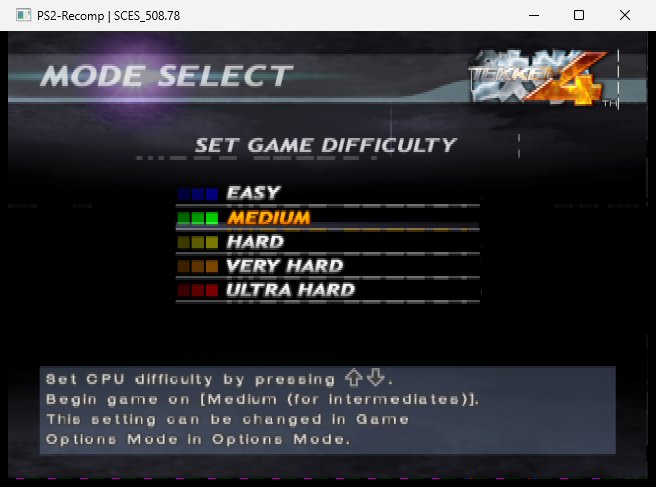
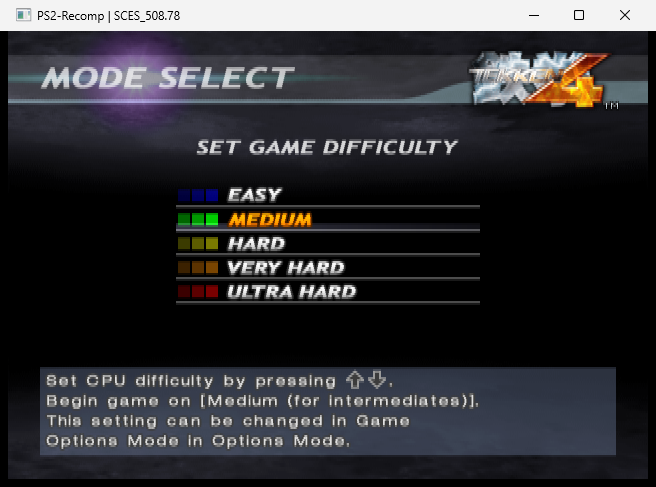
Dashed lines gone: sprites take UV at the pixel position (patch 08)
UI strips run from X -0.5 to 63.5 over U 0..64; DrawSprite sampled half a
pixel late (texel x+1) and read the GS memory beside each image at its right
and bottom edges. Patch 08 takes UV at the pixel and keeps FST fractions;
the difficulty screen now matches PCSX2. tools/gif_sprites.py lists the
sprites in a GIF packet log.

diff --git a/tools/gif_sprites.py b/tools/gif_sprites.py
@@ -1,0 +1,112 @@
+"""List the sprites in a GIF packet log written by the Tekken 4 override (TEKKEN4_GS_DUMP -> gif_packets_frame<N>.txt).
+
+Replays the GS registers a sprite depends on (PRIM, RGBAQ, UV, XYZ2, TEX0, CLAMP, TEX1, XYOFFSET, FRAME) through
+PACKED, REGLIST and A+D data, and prints one line per sprite: screen rectangle (XYOFFSET removed), UVs, texture
+and its CLAMP / filtering. Packets are logged as quadwords "hi lo", the GIF tag first; only the first 0x800 bytes
+of a packet are in the log, so sprites in a longer packet's tail are missing.
+
+Usage: python -I tools/gif_sprites.py logs/<run>/gif_packets_frame<N>.txt [--min-y Y --max-y Y]
+"""
+import argparse
+import re
+
+
+def packets(path):
+    cur = None
+    for line in open(path, encoding="utf-8"):
+        if line.startswith("packet"):
+            if cur:
+                yield cur
+            cur = []
+        else:
+            m = re.match(r"\s*[0-9a-f]+: ([0-9a-f]{16}) ([0-9a-f]{16})", line)
+            if m and cur is not None:
+                cur.append((int(m.group(2), 16), int(m.group(1), 16)))  # (lo, hi)
+    if cur:
+        yield cur
+
+
+def main():
+    ap = argparse.ArgumentParser()
+    ap.add_argument("log")
+    ap.add_argument("--min-y", type=float, default=-1e9)
+    ap.add_argument("--max-y", type=float, default=1e9)
+    args = ap.parse_args()
+    regs = {0x00: 0, 0x01: 0, 0x03: 0, 0x06: 0, 0x07: 0, 0x08: 0, 0x09: 0, 0x14: 0, 0x15: 0, 0x18: 0, 0x19: 0,
+            0x4C: 0, 0x4D: 0}
+    verts = []
+    count = 0
+
+    def write(addr, value):
+        nonlocal verts, count
+        if addr == 0x00:
+            regs[0x00] = value
+            verts = []
+        elif addr in (0x04, 0x05, 0x0C, 0x0D):
+            verts.append((value & 0xFFFF, (value >> 16) & 0xFFFF, regs[0x03]))
+            prim = regs[0x00]
+            if (prim & 7) == 6 and len(verts) == 2:
+                ctx = (prim >> 9) & 1
+                ofs = regs[0x18 + ctx]
+                ox, oy = (ofs & 0xFFFF) / 16.0, ((ofs >> 32) & 0xFFFF) / 16.0
+                (x0, y0, uv0), (x1, y1, uv1) = verts
+                fx0, fy0, fx1, fy1 = x0 / 16.0 - ox, y0 / 16.0 - oy, x1 / 16.0 - ox, y1 / 16.0 - oy
+                if args.min_y <= min(fy0, fy1) <= args.max_y or args.min_y <= max(fy0, fy1) <= args.max_y:
+                    tex0, clamp, tex1 = regs[0x06 + ctx], regs[0x08 + ctx], regs[0x14 + ctx]
+                    frame = regs[0x4C + ctx]
+                    u0, v0 = (uv0 & 0x3FFF) / 16.0, ((uv0 >> 16) & 0x3FFF) / 16.0
+                    u1, v1 = (uv1 & 0x3FFF) / 16.0, ((uv1 >> 16) & 0x3FFF) / 16.0
+                    tw, th = 1 << ((tex0 >> 26) & 0xF), 1 << ((tex0 >> 30) & 0xF)
+                    print(f"sprite ctx{ctx} fb {frame & 0x1FF:#x} x {fx0:g}..{fx1:g} y {fy0:g}..{fy1:g} "
+                          f"uv {u0:g},{v0:g}..{u1:g},{v1:g} tme {(prim >> 4) & 1} abe {(prim >> 6) & 1} "
+                          f"tex {tex0 & 0x3FFF:#x} psm {(tex0 >> 20) & 0x3F:#x} {tw}x{th} "
+                          f"clamp wms {clamp & 3} wmt {(clamp >> 2) & 3} minu {(clamp >> 4) & 0x3FF} "
+                          f"maxu {(clamp >> 14) & 0x3FF} minv {(clamp >> 24) & 0x3FF} maxv {(clamp >> 34) & 0x3FF} "
+                          f"linear {((tex1 >> 5) & 1) | (((tex1 >> 6) & 7) == 1)}")
+                count += 1
+                verts = []
+        else:
+            regs[addr] = value
+
+    for pkt in packets(args.log):
+        i = 0
+        while i < len(pkt):
+            lo, hi = pkt[i]
+            i += 1
+            nloop, flg, nreg = lo & 0x7FFF, (lo >> 58) & 3, (lo >> 60) & 0xF or 16
+            if (lo >> 46) & 1:
+                write(0x00, (lo >> 47) & 0x7FF)
+            descs = [(hi >> (4 * r)) & 0xF for r in range(nreg)]
+            if flg == 0:
+                for _ in range(nloop):
+                    for d in descs:
+                        if i >= len(pkt):
+                            break
+                        dlo, dhi = pkt[i]
+                        i += 1
+                        if d == 0xE:
+                            write(dhi & 0xFF, dlo)
+                        elif d == 0x3:
+                            write(0x03, (dlo & 0x3FFF) | (((dlo >> 32) & 0x3FFF) << 16))
+                        elif d in (0x4, 0x5):
+                            write(0x05, (dlo & 0xFFFF) | (((dlo >> 32) & 0xFFFF) << 16))
+                        elif d != 0xF:
+                            write(d, dlo)
+            elif flg == 1:
+                vals = []
+                for _ in range((nloop * nreg + 1) // 2):
+                    if i >= len(pkt):
+                        break
+                    vals += list(pkt[i])
+                    i += 1
+                for k, v in enumerate(vals[:nloop * nreg]):
+                    d = descs[k % nreg]
+                    if d not in (0xE, 0xF):
+                        write(d, v)
+            else:
+                i += nloop
+    print(f"{count} sprites")
+
+
+if __name__ == "__main__":
+    main()

diff --git a/docs/status.md b/docs/status.md
@@ -19,7 +19,8 @@ To continue, open Claude Code in this folder and say: "read docs/status.md and c
   Strip gaps fixed (patch 05, see "Sprite strip gaps").
   Vibrating picture fixed (patch 06, see "Field offset").
   After the movie (Start skips it) the first-run difficulty screen works (see "Difficulty screen").
-- **Resume at: "Next steps" #1, the dashed lines on the difficulty screen, then on to the main menu.**
+  Its dashed lines are fixed too (patch 08).
+- **Resume at: "Next steps" #1, pick MEDIUM and follow the game to its main menu (milestone 6).**
 - **Main config is now `config/ghidra_export.toml`**, reading `config/function_map.csv` (Ghidra functions + `extra_functions.csv`). The analyzer seed is kept for reference.
 - Build loop: `ps2_recomp config/ghidra_export.toml` -> `tools\stage_generated.cmd` -> `tools\build_runtime.cmd`
   (~3.5 min clean; applies `patches\*.patch` first) -> `tools\run_game.cmd` (close the window to stop; output in `logs\run.log`).
@@ -435,9 +436,13 @@ Their runtime is a full PS2Recomp fork on the repo's `origin/runtime` branch (re
   a test). docs/img/difficulty_screen.png.
 - Tried and dropped: making a zero-size sprite draw nothing (GS behaviour). 8 upstream tests draw sprites with
   both corners on one point and expect a pixel, and it did not remove the dashed lines.
-- Still off: thin dashed lines (left/right of "SET GAME DIFFICULTY", on the MEDIUM row, a vertical one by the
-  logo, purple dashes at the bottom). Not in PCSX2. Next: GS dump of this screen (TEKKEN4_GS_DUMP ~1150 with the
-  Start key) and find which primitives draw them.
+- Thin dashed lines along the panels' edges (not in PCSX2): `tools/gif_sprites.py` (new; lists the sprites in a
+  TEKKEN4_GS_DUMP GIF log with UV, texture, CLAMP, filtering) showed the UI drawn as 64-px strips from X -0.5 to
+  63.5 over U 0..64 (Y the same way, given bottom-up). The GS samples u = u0 + (x - X0) * du/dx = x + 0.5 (texel
+  x); DrawSprite added half a pixel more, so it read texel x+1 and, at each image's right/bottom edge, the GS
+  memory beside the image. **Patch 08** takes UV at the pixel position and keeps FST UV fractions (they were
+  >> 4). Integer-aligned point sampling is unchanged; PR #377 third commit + test, 448/448. The screen now
+  matches PCSX2 (docs/img/difficulty_screen.png).
 
 ## Publishing (from 2026-10-21)
 The user pre-authorized publishing every successful milestone on three channels:
@@ -459,7 +464,7 @@ The user pre-authorized publishing every successful milestone on three channels:
 - PR #376 https://github.com/ran-j/PS2Recomp/pull/376 = patch 04 + a test, sceMpegCreate clears mp->sys word 0
   (branch `mpeg-create-clears-end`, commit ccaa06f, worktree `external/ps2recomp-pr4`, 446/446).
 - PR #375 also carries patch 06 (second commit d9141f2, field offset; title and description updated, 447/447).
-- PR #377 https://github.com/ran-j/PS2Recomp/pull/377 = patches 05 + 07 with tests (two commits) (two strips 0..63.5 and 64..127.5),
+- PR #377 https://github.com/ran-j/PS2Recomp/pull/377 = patches 05 + 07 + 08 with tests (three commits) (two strips 0..63.5 and 64..127.5),
   branch `sprite-edge-coverage`, worktree `external/ps2recomp-pr5`, 446/446. The test is only in the PR branch.
 - Not published yet: the intro movie (no milestone page; publish with milestone 6, the title screen).
 - **Milestone pages** (private until the user shares them from the page's Share menu): milestone 4 at
@@ -467,8 +472,7 @@ The user pre-authorized publishing every successful milestone on three channels:
   https://claude.ai/artifact/CoN3nkpepFjyn5LSbPEQ7j (menu, PAL60 confirmation, Namco logo; four fixes).
 
 ## Next steps
-1. Dashed lines on the difficulty screen (see "Difficulty screen"), then pick MEDIUM (Cross) and follow the game
-   to its main menu vs PCSX2. Reaching the main menu = milestone 6: publish its page (movie, display fixes).
+1. Pick MEDIUM (Cross) on the difficulty screen and follow the game to its main menu vs PCSX2. Reaching the main menu = milestone 6: publish its page (movie, display fixes).
 2. Frame pacing: 38-47 vs 50/60 fps. The loop busy-waits on `RCNT0_COUNT >= 0x724` and on vsync.
 3. Sound for real (milestone 8): find how the game loads its IOP modules (sceSifRebootIop with
    IOPRP243.IMG, then module buffers probably from DATA.BIN), extract the sound IRX and run it on ps2xIOP's
